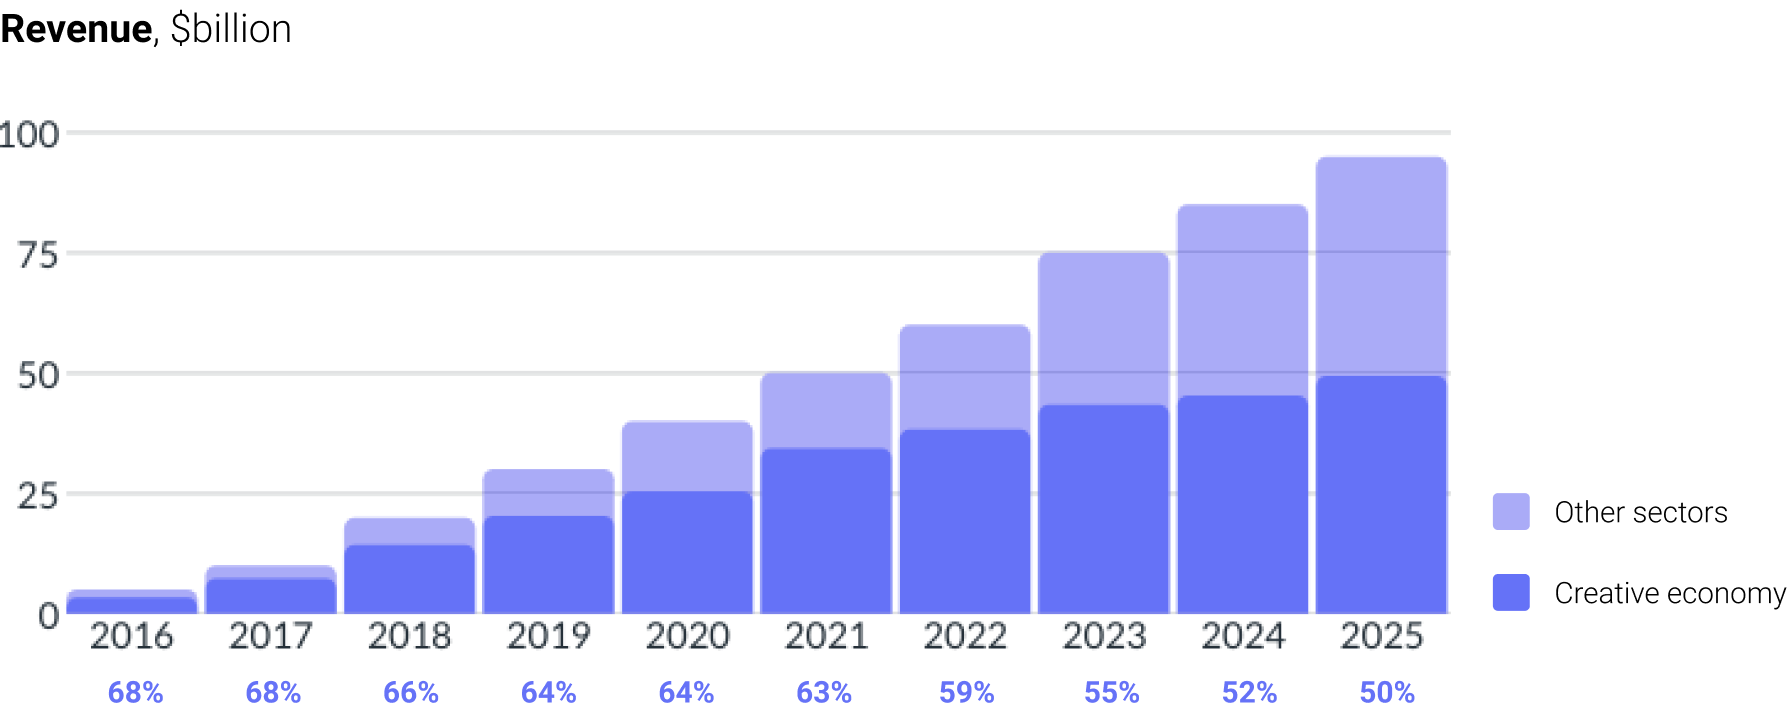
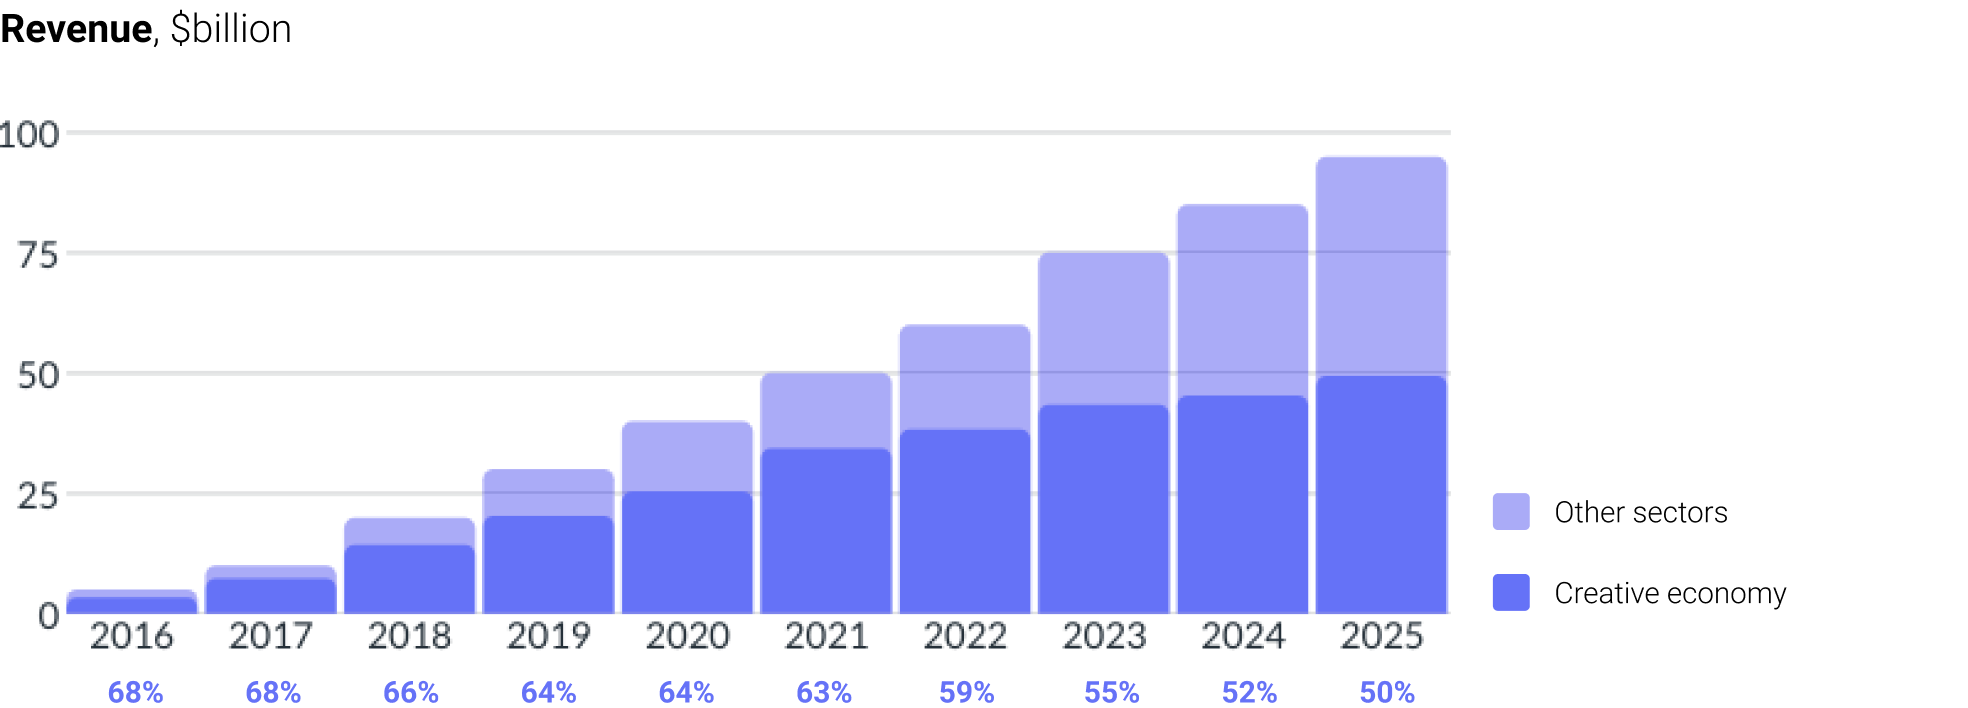
fix: COM-1965 Исправил размытые картинки

diff --git a/components/Post/Body/Img/Img.styles.js b/components/Post/Body/Img/Img.styles.js
@@ -7,6 +7,9 @@ const base = ({ breakpoints: { desktop, tablet, mobile }}) => css`
   }
 
   img {
+    max-width: 656px;
+    margin-left: auto;
+    margin-right: auto;
     display: block;
     height: 100%;
     width: 100%;
